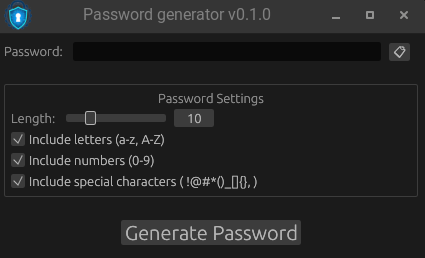
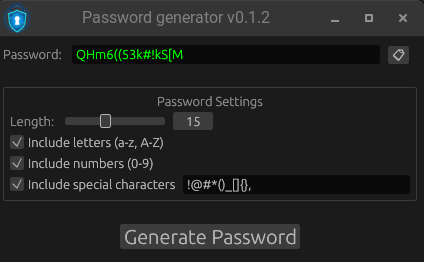
added possibility to define the set of special characters

diff --git a/src/main.rs b/src/main.rs
@@ -1,5 +1,7 @@
 #![cfg_attr(not(debug_assertions), windows_subsystem = "windows")]
 
+use std::collections::HashSet;
+
 use eframe::*;
 use egui::{Color32, RichText, Slider};
 use rand::Rng;
@@ -19,6 +21,51 @@ pub fn load_embedded_icon() -> Result<crate::egui::IconData, String> {
     Ok(crate::egui::IconData { rgba, width, height })
 }
 
+#[derive(Debug, PartialEq)]
+enum PasswordStrength {
+    Strong,  // Зеленый
+    Good,  // Желтый
+    Medium,  // Оранжевый
+    Weak,    // Красный
+}
+
+fn check_password_strength(password: &str) -> PasswordStrength {
+    let len = password.len();
+
+    // Check if it contents special chars
+    let has_uppercase = password.chars().any(|c| c.is_uppercase());
+    let has_lowercase = password.chars().any(|c| c.is_lowercase());
+    let has_digits = password.chars().any(|c| c.is_numeric());
+    let has_special = password.chars().any(|c| !c.is_alphanumeric());
+
+    // Calculate cases and types
+    let mut types_count = 0;
+    if has_uppercase { types_count += 1; }
+    if has_lowercase { types_count += 1; }
+    if has_digits { types_count += 1; }
+    if has_special { types_count += 1; }
+
+    // 1. СИЛЬНЫЙ: длинный (12+) и минимум 4 типа символов
+    if len >= 12 && types_count >= 4 {
+        PasswordStrength::Strong
+    }
+
+    // 1. ХОРОШИЙ: длина (10+) и минимум 3 типа символов
+    else if len >= 10 && types_count >= 3 {
+        PasswordStrength::Good
+    }
+
+    // 2. СРЕДНИЙ: средняя длина (8+) и минимум 2 типа символов
+    else if len >= 8 && types_count >= 2 {
+        PasswordStrength::Medium
+    }
+
+    // 3. СЛАБЫЙ: короткий или однообразный
+    else {
+        PasswordStrength::Weak
+    }
+}
+
 struct PasswordApp {
     password: String,
     password_length: usize,
@@ -28,9 +75,34 @@ struct PasswordApp {
     copy_status: String,
     copy_status_time: Option<std::time::Instant>,
     special_chars_set: String,
+    special_chars_set_input: String,
 }
 
 impl PasswordApp {
+    fn input_is_good(&mut self) -> bool {
+        if self.special_chars_set_input.is_empty() {
+            return false;
+        }
+
+        let mut seen_chars = HashSet::new();
+
+        for ch in self.special_chars_set_input.chars() {
+            // 1. Проверяем, является ли символ буквой или цифрой
+            // Если да — значит это не спец-символ, возвращаем false
+            if ch.is_alphanumeric() {
+                return false;
+            }
+
+            // 2. Пытаемся вставить символ в HashSet.
+            // Если insert() возвращает false, значит символ уже был в наборе
+            if !seen_chars.insert(ch) {
+                return false;
+            }
+        }
+
+        true
+    }
+
     fn generate_password(&mut self) {
         let mut rng = rand::rng();
         let mut available_chars = Vec::new();
@@ -110,8 +182,11 @@ fn main() {
         use_special_chars: app_config.options.use_special_chars,
         copy_status: String::new(),
         copy_status_time: None,
-        special_chars_set: "!@#*()_[]{},".to_string(),
+        special_chars_set: app_config.options.special_chars_set.clone(),
+        special_chars_set_input: String::new(),
     };
+
+    password_app.special_chars_set_input = password_app.special_chars_set.clone();
 
     eframe::run_simple_native(&title, options, move |ctx, _frame| {
         ctx.set_visuals(egui::Visuals::dark());
@@ -135,9 +210,15 @@ fn main() {
                 ui.vertical_centered(|ui| {
                     ui.horizontal(|ui| {
                         ui.label("Password: ");
-                        let text_edit = egui::TextEdit::singleline(&mut password_app.password)
-                            .desired_width(300.0);
-                        ui.add(text_edit);
+
+                        let pass_color = match check_password_strength(password_app.password.as_str()) {
+                            PasswordStrength::Strong => Color32::GREEN,
+                            PasswordStrength::Good => Color32::YELLOW,
+                            PasswordStrength::Medium => Color32::ORANGE,
+                            PasswordStrength::Weak => Color32::RED,
+                        };
+
+                        ui.add(egui::TextEdit::singleline(&mut password_app.password).desired_width(300.0).text_color(pass_color));
 
                         if ui.button("📋").on_hover_text("Copy to clipboard").clicked() {
                             if let Err(e) = password_app.copy_to_clipboard() {
@@ -166,7 +247,17 @@ fn main() {
                             // Character types
                             ui.checkbox(&mut password_app.use_letters, "Include letters (a-z, A-Z)");
                             ui.checkbox(&mut password_app.use_numbers, "Include numbers (0-9)");
-                            ui.checkbox(&mut password_app.use_special_chars, format!("Include special characters ( {} )", password_app.special_chars_set));
+
+                            ui.horizontal(|ui| {
+                                ui.checkbox(&mut password_app.use_special_chars, "Include special characters");
+                                if ui.add_enabled(password_app.use_special_chars, egui::TextEdit::singleline(&mut password_app.special_chars_set_input)).changed() {
+                                    if password_app.input_is_good() {
+                                        password_app.special_chars_set = password_app.special_chars_set_input.clone();
+                                    } else {
+                                        password_app.special_chars_set_input = password_app.special_chars_set.clone();
+                                    }
+                                }
+                            });
                         });
                     });
 
@@ -198,6 +289,11 @@ fn main() {
                 app_config.options.use_special_chars = password_app.use_special_chars;
             }
 
+            if password_app.special_chars_set != app_config.options.special_chars_set {
+                config_should_be_saved = true;
+                app_config.options.special_chars_set = password_app.special_chars_set_input.clone();
+            }
+
             if config_should_be_saved {
                 let _ = write_config_to_file(
                     app_config.options.last_window_pos_x,
@@ -206,6 +302,7 @@ fn main() {
                     app_config.options.use_letters,
                     app_config.options.use_numbers,
                     app_config.options.use_special_chars,
+                    app_config.options.special_chars_set.clone(),
                 );
                 config_should_be_saved = false;
             }

diff --git a/src/config.rs b/src/config.rs
@@ -10,6 +10,7 @@ pub struct Options {
     pub use_letters: bool,
     pub use_numbers: bool,
     pub use_special_chars: bool,
+    pub special_chars_set: String,
 }
 
 #[derive(Deserialize, Serialize)]
@@ -34,6 +35,7 @@ pub fn write_config_to_file(
     use_letters: bool,
     use_numbers: bool,
     use_special_chars: bool,
+    special_chars_set: String,
 ) -> Result<(), Box<dyn std::error::Error>> {
     let mut config_file_path = app_root_path();
     config_file_path.push(crate::MAIN_CONFIG_FILE_NAME);
@@ -50,6 +52,7 @@ pub fn write_config_to_file(
             use_letters,
             use_numbers,
             use_special_chars,
+            special_chars_set,
         }
     };
 
@@ -76,10 +79,11 @@ pub fn read_app_config_from_file() -> Config {
         options: Options {
             last_window_pos_x: 20.0,
             last_window_pos_y: 10.0,
-            password_length: 10,
+            password_length: 12,
             use_letters: true,
             use_numbers: true,
             use_special_chars: true,
+            special_chars_set: "!@#*()_[]{},".to_string(),
         },
     };
 
@@ -89,10 +93,11 @@ pub fn read_app_config_from_file() -> Config {
             write_config_to_file(
                 20.0,
                 10.0,
-                10,
+                12,
                 true,
                 true,
                 true,
+                "!@#*()_[]{},".to_string(),
             ).unwrap();
             to_string(&new_config).unwrap()
         }
@@ -105,10 +110,11 @@ pub fn read_app_config_from_file() -> Config {
             write_config_to_file(
                 20.0,
                 10.0,
-                10,
+                12,
                 true,
                 true,
                 true,
+                "!@#*()_[]{},".to_string(),
             ).unwrap();
             new_config
         }

diff --git a/README.md b/README.md
@@ -12,7 +12,7 @@ A secure, user-friendly password generator built with Rust and eframe. Generate 
 - Control password length (4-32 characters)
 - Include or exclude letters (a-z, A-Z)
 - Include or exclude numbers (0-9)
-- Include or exclude special characters (!@#*()_[]{},)
+- Include or exclude special characters (Define characters, that you want to include in generation)
 
 ✅ **User-Friendly Interface**
 - Clean, intuitive design
@@ -60,13 +60,13 @@ A secure, user-friendly password generator built with Rust and eframe. Generate 
 2. Select character types using checkboxes:
    - Letters (a-z, A-Z)
    - Numbers (0-9)
-   - Special characters (!@#*()_[]{},)
+   - Special characters
 3. Click "Generate Password"
 4. Click the clipboard icon to copy the password
 
 ## Default Settings
 
-- Password length: 10 characters
+- Password length: 12 characters
 - All character types enabled (letters, numbers, and special characters)
 
 ## Dependencies
